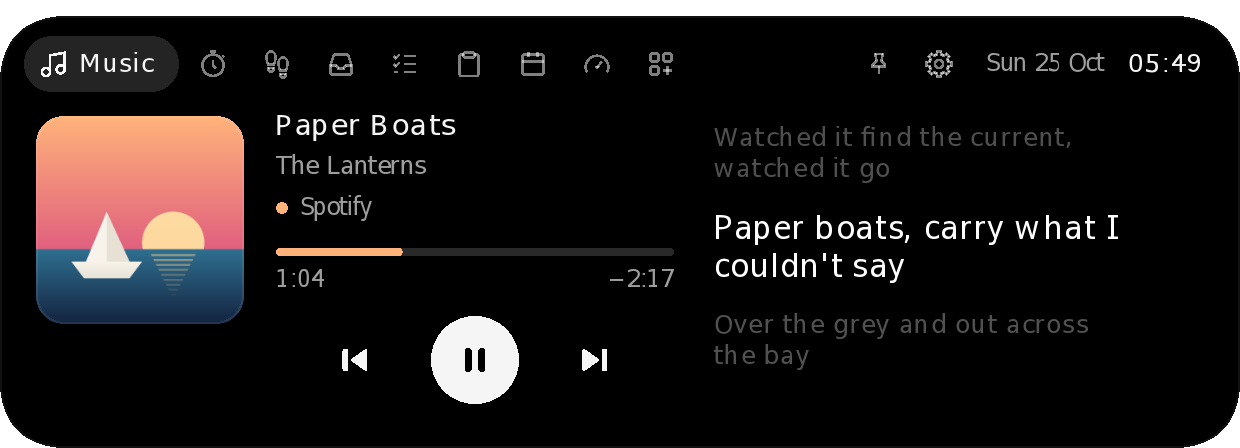
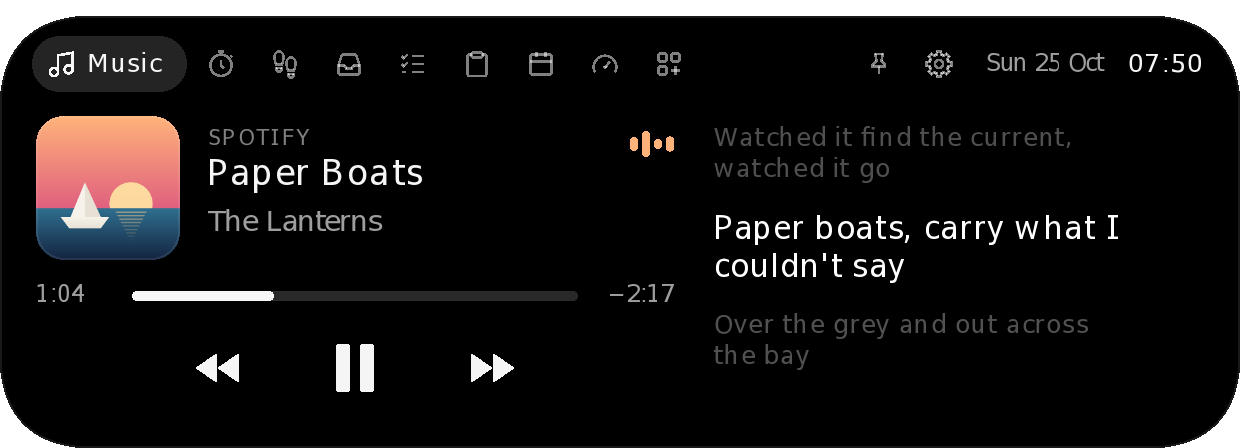
Website and README: Pill from the integrated build, on Windows and on the Mac
The Pill pictures are retaken from the integrated build (pill-theme acc3125,
lane build) at 200 %: the time and battery at rest, the Status bar look, the
line being sung with the album's bars and glow, the timer, the volume pop-up
and a notice as capsules, and the Music card (ref1 layout, lyrics kept). The
copy says what that build does: a desktop shows the time alone, plugged in
shows the bolt, Status bar is Pill's own idle look, the card has Classic's
tabs. Wine's software renderer draws no shadow (its window would take clicks
there), so these Windows pictures have the rim but not the shadow.

The Mac section gets "Pill on a Mac" from the mac workflow's renders (run
40147278931): at rest beside the camera, the sung line and pop-ups floating
just below the notch, and the Music and Today cards below it; its notes and
the README's Mac lines list Pill. tools/site_shots.py <renders> mac pill cuts
those (taller strips: what floats below the notch needs the room).

Classic and Oyen Settings pictures retaken in the same minute: the theme
picker lists Pill. README: the Pill guide follows the integrated build and
says what Pill does on a MacBook with a notch.

diff --git a/site/index.html b/site/index.html
@@ -198,6 +198,7 @@ section { padding-block: 88px; }
 .pill-rest .sky, .pill-side .sky { height: 136px; }
 .pill-theme .pill-page { margin-top: 16px; }
 .pill-side { display: grid; gap: 14px; }
+.pill-theme .theme-notes { align-items: start; }
 .pill-side .how { margin-top: 0; }
 /* the Mac: screen pictures with the menu bar and the camera notch, so they keep their own frame */
 .mac-strips { display: grid; grid-template-columns: repeat(3, minmax(0, 1fr)); gap: 16px; }
@@ -207,6 +208,9 @@ section { padding-block: 88px; }
 .mac-shot strong { font: 600 16px/1.3 var(--display); }
 .mac-shot span { font-size: 14px; color: var(--muted); }
 .mac-get { display: grid; gap: 14px; justify-items: start; }
+/* Pill on a Mac: its own pictures, after the Classic and Oyen ones the switch swaps */
+.mac-pill { margin-top: 40px; }
+.mac-pill > .eyebrow { margin-bottom: 14px; }
 .mac-get .how { margin-top: 0; }
 .how { margin-top: 18px; font-size: 15px; color: var(--muted); }
 .how kbd { font: 600 13px/1 var(--sans); background: var(--bg); border: 1px solid var(--line); border-bottom-width: 2px; border-radius: 6px; padding: 3px 7px; color: var(--ink); }
@@ -369,12 +373,40 @@ footer a { color: var(--muted); }
           <figcaption><strong>Today</strong><span>The date and calendar, with your Mac's CPU, memory, disk and battery.</span></figcaption>
         </figure>
       </div>
+      <div class="mac-pill">
+        <p class="eyebrow">Pill on a Mac · New in 0.1.21 (to confirm)</p>
+        <div class="mac-strips">
+          <figure class="mac-shot">
+            <img src="assets/shots/mac/pill/idle-clock.webp" alt="Pill resting on a MacBook: attached beside the camera notch, the time on its left, the battery's percentage and the battery on its right" width="420" height="108" loading="lazy">
+            <figcaption><strong>Resting</strong><span>Beside the camera: the time on one side, the battery on the other.</span></figcaption>
+          </figure>
+          <figure class="mac-shot">
+            <img src="assets/shots/mac/pill/media-activity.webp" alt="Pill on a MacBook while a lyric line is sung: a black capsule floating just below the notch, with the album art, the line and an equalizer in the album's colour" width="420" height="108" loading="lazy">
+            <figcaption><strong>The line being sung</strong><span>It needs the room the camera takes, so it floats just below the notch.</span></figcaption>
+          </figure>
+          <figure class="mac-shot">
+            <img src="assets/shots/mac/pill/volume-hud.webp" alt="The volume pop-up in Pill on a MacBook: a capsule floating just below the notch" width="420" height="108" loading="lazy">
+            <figcaption><strong>Pop-ups and notices</strong><span>Capsules that float just below the notch.</span></figcaption>
+          </figure>
+        </div>
+        <div class="pages-2">
+          <figure class="mac-shot">
+            <img src="assets/shots/mac/pill/page-media.webp" alt="The open island in Pill on a MacBook: a black card with four rounded corners floating below the notch, on the Music page with synced lyrics" width="710" height="296" loading="lazy">
+            <figcaption><strong>Open, below the notch</strong><span>The card floats just below the menu bar, every corner rounded.</span></figcaption>
+          </figure>
+          <figure class="mac-shot">
+            <img src="assets/shots/mac/pill/page-today.webp" alt="The Today page in Pill on a MacBook, in the same floating card" width="710" height="312" loading="lazy">
+            <figcaption><strong>Every page</strong><span>Today, Focus, the Shelf and the rest open in the same card.</span></figcaption>
+          </figure>
+        </div>
+      </div>
       <div class="theme-notes">
         <ul>
           <li><span>Music and Spotify, with synced lyrics from LRCLIB, or Apple Music's own with your token, and the reading under Japanese, Korean and Chinese lines.</span></li>
           <li><span>The focus timer, the Shelf with Phone drop over the same Wi-Fi, tasks, clipboard history, and the System page with your Mac's CPU, graphics, memory, drives, network, battery and busiest apps.</span></li>
-          <li><span>Pop-ups for volume and charging, the Classic, Oyen and Glass themes, and start at login. Every option is in the menu bar, under Oyen's mark.</span></li>
+          <li><span>Pop-ups for volume and charging, the Classic, Oyen, Glass and Pill themes, and start at login. Every option is in the menu bar, under Oyen's mark.</span></li>
           <li><span>New in 0.1.19: Oyen goes black around the notch; Glass is macOS's own glass, Liquid Glass on macOS 26 and a dark blur before it, with a black strip where it meets the notch; and the System page reads your Mac, the way Stats shows it.</span></li>
+          <li><span>New in 0.1.21 (to confirm): Pill. On a MacBook with a notch, the resting island, the timer and music between lines stay beside the camera; the line being sung, pop-ups, notices and the open island float just below the notch. Without a notch it floats below the top of the screen, as on Windows.</span></li>
           <li><span>Not on the Mac yet: paired phones, Oyenza sign-in, add-ons, Show over games, headphone pop-ups and hiding in full-screen apps.</span></li>
         </ul>
         <div class="mac-get">
@@ -711,39 +743,44 @@ footer a { color: var(--muted); }
       </div>
       <div class="pill-rest">
         <figure class="strip">
-          <div class="sky"><div class="island"><img src="assets/shots/pill/idle-clock.webp" alt="The Pill island at rest: a black capsule floating below the top edge, the time on the left and the battery on the right" width="84" height="38" loading="lazy"></div></div>
-          <figcaption><strong>Resting</strong><span>The time on the left and, on a laptop, the battery on the right.</span></figcaption>
+          <div class="sky"><div class="island"><img src="assets/shots/pill/idle-clock.webp" alt="The Pill island at rest: a black capsule floating below the top edge, the time on the left, 76% and a green battery on the right" width="152" height="40" loading="lazy"></div></div>
+          <figcaption><strong>Resting</strong><span>The time on the left and, on a laptop, the battery on the right, with a bolt while it's plugged in. A desktop shows the time alone.</span></figcaption>
         </figure>
         <figure class="strip">
-          <div class="sky"><div class="island"><img src="assets/shots/pill/media-activity.webp" alt="The Pill island while music plays: the album art, the line being sung in the middle and an equalizer in the album's colour" width="120" height="40" loading="lazy"></div></div>
-          <figcaption><strong>Music playing</strong><span>The album art, the line being sung, and a beat in the album's colour, with a glow of it along the bottom edge.</span></figcaption>
+          <div class="sky"><div class="island"><img src="assets/shots/pill/idle-status.webp" alt="The Status bar look: the volume, the date and time in a pill of their own, and the battery" width="238" height="40" loading="lazy"></div></div>
+          <figcaption><strong>Status bar</strong><span>The volume, the date and time in an inner pill, and the battery.</span></figcaption>
         </figure>
         <figure class="strip">
-          <div class="sky"><div class="island"><img src="assets/shots/pill/timer-activity.webp" alt="A focus countdown in the Pill theme: a progress ring and the minutes left" width="96" height="40" loading="lazy"></div></div>
+          <div class="sky"><div class="island"><img src="assets/shots/pill/media-activity.webp" alt="The Pill island while music plays: the album art, the line being sung, and bars in the album's colour, which glows along the bottom edge" width="336" height="40" loading="lazy"></div></div>
+          <figcaption><strong>Music playing</strong><span>The line being sung, or the title and artist between lines, with bars in the album's colour and a glow of it along the bottom.</span></figcaption>
+        </figure>
+        <figure class="strip">
+          <div class="sky"><div class="island"><img src="assets/shots/pill/timer-activity.webp" alt="A focus countdown in the Pill theme: a progress ring and the minutes left in a capsule" width="96" height="40" loading="lazy"></div></div>
           <figcaption><strong>Focus timer</strong><span>The ring and the minutes left.</span></figcaption>
         </figure>
         <figure class="strip">
-          <div class="sky"><div class="island"><img src="assets/shots/pill/volume-hud.webp" alt="The volume pop-up in the Pill theme: a speaker, the level and the percentage in one capsule" width="316" height="48" loading="lazy"></div></div>
-          <figcaption><strong>Volume and charging</strong><span>Pop-ups take the same shape.</span></figcaption>
+          <div class="sky"><div class="island"><img src="assets/shots/pill/volume-hud.webp" alt="The volume pop-up in the Pill theme: a speaker, the level and 64% in one capsule" width="272" height="40" loading="lazy"></div></div>
+          <figcaption><strong>Volume and charging</strong><span>Pop-ups take the same capsule shape.</span></figcaption>
+        </figure>
+        <figure class="strip">
+          <div class="sky"><div class="island"><img src="assets/shots/pill/health-notice.webp" alt="A notice in the Pill theme: 8,412 steps today, daily step goal reached, in a taller capsule" width="200" height="56" loading="lazy"></div></div>
+          <figcaption><strong>Notices</strong><span>A taller capsule, with room for two lines.</span></figcaption>
         </figure>
       </div>
       <figure class="strip tall pill-page">
-        <div class="sky"><div class="island"><img src="assets/shots/pill/page-media.webp" alt="The open island in the Pill theme: a black card with four rounded corners floating below the top edge, on the Music page with synced lyrics" width="620" height="224" loading="lazy"></div></div>
-        <figcaption><strong>Open</strong><span>A card with all four corners rounded. On the Music page: the album art and the song, the time on one line, and the controls under it.</span></figcaption>
+        <div class="sky"><div class="island"><img src="assets/shots/pill/page-media.webp" alt="The open island in the Pill theme: a black card with four rounded corners floating below the top edge, on the Music page: the album art, Spotify over Paper Boats, the time on one line, the controls, and the synced lyrics beside them" width="620" height="224" loading="lazy"></div></div>
+        <figcaption><strong>Open</strong><span>A card with every corner rounded and Classic's tabs. On the Music page: the art, the player's name over the song, the time on one line and big controls, with the lyrics beside them.</span></figcaption>
       </figure>
       <div class="theme-notes">
         <ul>
           <li><span>A soft shadow and a fine rim keep it apart from the wallpaper, light or dark.</span></li>
           <li><span>Colour only where it means something: the album's colour for music, green for a charging battery, red for a low one.</span></li>
-          <li><span>Right-click › <b>Idle look</b> › <b>Status bar</b> and the resting pill widens into a status bar: the date and time, the volume and the battery.</span></li>
+          <li><span>Status bar is Pill's own idle look: right-click › <b>Idle look</b> › <b>Status bar</b>. The other themes keep the clock.</span></li>
+          <li><span>On a MacBook with a notch, the resting island stays beside the camera, and pop-ups, notices and the open card float just below it: <a href="#mac">see On a Mac</a>.</span></li>
           <li><span>The pages and features are the same as in Classic. Classic stays the default look.</span></li>
         </ul>
         <div class="pill-side">
-          <figure class="strip">
-            <div class="sky"><div class="island"><img src="assets/shots/pill/health-notice.webp" alt="A notice in the Pill theme: 8,412 steps today, daily step goal reached, in a taller capsule" width="372" height="60" loading="lazy"></div></div>
-            <figcaption><strong>Notices</strong><span>A taller capsule, with room for two lines.</span></figcaption>
-          </figure>
-          <p class="how">Right-click the island, then <kbd>Theme</kbd> › <kbd>Pill</kbd>. Or open the island, press the gear and pick <kbd>Pill</kbd> under Theme. Switch back to <kbd>Classic</kbd> any time.</p>
+          <p class="how">Right-click the island, then <kbd>Theme</kbd> › <kbd>Pill</kbd>. Or open the island, press the gear and pick <kbd>Pill</kbd> under Theme. On a Mac, it's in the menu bar's Theme menu. Switch back to <kbd>Classic</kbd> any time.</p>
         </div>
       </div>
     </div>

diff --git a/tools/site_shots.py b/tools/site_shots.py
@@ -55,6 +55,12 @@ menu bar:
     gh run download <mac run> -R lucacadalora/poni -n mac-renders -D mac-renders
     python3 tools/site_shots.py mac-renders mac
 
+Pill's Mac pictures (mac/pill/, MAC_PILL_KEEP) are cut taller: what hangs
+below the notch floats there. A theme as a fourth argument cuts only that
+theme's pictures:
+
+    python3 tools/site_shots.py mac-renders mac pill
+
 The self-test writes NAME.png (the island's canvas on a test gradient, with
 margins) and NAME-alpha.png (the canvas's own alpha). This cuts the canvas out,
 takes its alpha from NAME-alpha.png and removes the gradient from the
@@ -76,8 +82,9 @@ KEEP = {
     "page-settings-stay-on-top", "page-shelf-pairing", "page-addons", "page-prayer", "prayer-countdown",
     "game-stats", "page-system-games",
 }
-# The Pill section: the island at rest, playing music and open on the Music page.
-PILL_KEEP = {"idle-clock", "media-activity", "timer-activity", "volume-hud", "health-notice", "page-media"}
+# The Pill section: the island at rest (clock and status bar looks), playing music (the line being
+# sung), a timer, a pop-up and a notice, and open on the Music page.
+PILL_KEEP = {"idle-clock", "idle-status", "media-activity", "timer-activity", "volume-hud", "health-notice", "page-media"}
 # Glass pictures keep the page under the island: the glass is made of it.
 # By run: the open island in light and dark mode, and the resting island
 # over a bright page and over a dark one with Windows still in light mode.
@@ -87,6 +94,10 @@ GLASS_KEEP = {"light": {"page-media", "media-activity"}, "dark": {"page-media"},
 # the notch and are kept whole.
 MAC_KEEP = {"idle-clock", "media-activity", "timer-activity", "page-media", "page-today"}
 MAC_STRIP = (840, 136)
+# Pill on a Mac: what hangs below the notch (the line being sung, pop-ups) floats there, so its
+# strips are cut taller to keep the pill and its shadow; the resting island stays in the ears.
+MAC_PILL_KEEP = {"idle-clock", "media-activity", "volume-hud", "page-media", "page-today"}
+MAC_PILL_STRIP = (840, 216)
 
 
 def cut(shot: Path, alpha: Path, floating: bool = False) -> Image.Image:
@@ -129,17 +140,19 @@ def glass(src: Path, run: str) -> None:
         print(f"glass/{run}-{name}.webp  {img.width}x{img.height}")
 
 
-def mac(src: Path) -> None:
+def mac(src: Path, only: str | None = None) -> None:
     for shot in sorted(src.glob("[0-9][0-9]-*-notch.png")):
         name = re.sub(r"^\d\d-", "", shot.stem)[: -len("-notch")]
         theme = "classic"
-        if name.endswith("-oyen"):
-            name, theme = name[: -len("-oyen")], "oyen"
-        if name not in MAC_KEEP:
+        for t in ("oyen", "pill"):
+            if name.endswith("-" + t):
+                name, theme = name[: -len(t) - 1], t
+        keep, strip = (MAC_PILL_KEEP, MAC_PILL_STRIP) if theme == "pill" else (MAC_KEEP, MAC_STRIP)
+        if name not in keep or (only and theme != only):
             continue
         img = Image.open(shot).convert("RGB")
         if not name.startswith("page-"):
-            w, h = MAC_STRIP
+            w, h = strip
             x0 = (img.width - w) // 2
             img = img.crop((x0, 0, x0 + w, h))
         dst = ROOT / "site" / "assets" / "shots" / "mac" / theme
@@ -152,8 +165,8 @@ def main() -> None:
     if len(sys.argv) == 4 and sys.argv[2] == "glass" and sys.argv[3] in ("light", "dark", "flip"):
         glass(Path(sys.argv[1]), sys.argv[3])
         return
-    if len(sys.argv) == 3 and sys.argv[2] == "mac":
-        mac(Path(sys.argv[1]))
+    if len(sys.argv) in (3, 4) and sys.argv[2] == "mac":
+        mac(Path(sys.argv[1]), sys.argv[3] if len(sys.argv) == 4 else None)
         return
     if len(sys.argv) not in (3, 4) or sys.argv[2] not in ("classic", "oyen", "pill"):
         sys.exit(__doc__)

diff --git a/README.md b/README.md
@@ -185,7 +185,7 @@ Yes, on Windows 10 and 11. Glass needs Windows 10 version 2004 or later to bend 
 <summary><b>What's different on a Mac?</b></summary>
 <br>
 
-The island wraps the notch, and the Mac has music with lyrics, Focus, the Shelf with Phone drop, Tasks, Clipboard, Today, the Classic, Oyen and Glass themes and start at login. Not on the Mac yet: paired phones, Oyenza sign-in, add-ons, Show over games, headphone pop-ups and hiding in full-screen apps. [On a Mac](#on-a-mac) has the details.
+The island wraps the notch, and the Mac has music with lyrics, Focus, the Shelf with Phone drop, Tasks, Clipboard, Today, the Classic, Oyen, Glass and Pill themes and start at login. Not on the Mac yet: paired phones, Oyenza sign-in, add-ons, Show over games, headphone pop-ups and hiding in full-screen apps. [On a Mac](#on-a-mac) has the details.
 
 </details>
 
@@ -234,13 +234,14 @@ To bend what's under it, Glass copies the part of the screen behind its window (
 
 ### The Pill theme
 
-Pill changes the island's shape and layouts, not only its colours. Pick it with right-click › **Theme › Pill**, or the gear › **Theme › Pill**.
+Pill changes the island's shape and layouts, not only its colours. Pick it with right-click › **Theme › Pill**, or the gear › **Theme › Pill**; on a Mac, in the menu bar's Theme menu.
 
 - **It floats.** The island sits a little below the top edge: a capsule while it rests, and a card with all four corners rounded when it opens. A soft shadow and a fine rim keep it apart from the wallpaper, light or dark.
-- **At rest** it shows the time and, on a laptop, the battery on the right. Pick **Idle look › Status bar** and it widens into a status bar with the date and time, the volume and the battery.
-- **While music plays** it shows the album art, the line being sung (or the song's title when nothing is being sung) and a beat in the album's colour, which glows along the bottom edge.
-- **Open**, the Music page is a card: the album art and the song, the time on one line, and the controls under it. Pop-ups and notices take the capsule shape too.
+- **At rest** it shows the time and, on a laptop, the battery's percentage and the battery on the right, with a bolt while it's plugged in. A desktop shows the time alone. Pick **Idle look › Status bar** and it widens into a status bar: the volume, the date and time in an inner pill, and the battery. Status bar is Pill's own; the other themes keep the clock.
+- **While music plays** it shows the album art, the line being sung (or the title and artist between lines) and bars in the album's colour, with a glow of it along the bottom edge.
+- **Open**, it's a card with Classic's tabs. The Music page lays out like a player card: the art, the player's name over the song, the time on one line and big controls, with the lyrics beside them. Pop-ups, notices and the focus timer take the capsule shape too.
 - **Colour only where it means something:** the album's colour for music, green for a charging battery, red for a low one, and your Windows accent elsewhere.
+- **On a MacBook with a notch**, the resting island, the timer and music between lines stay beside the camera, and the line being sung, pop-ups, notices and the open card float just below the notch. Without a notch it floats below the top of the screen, as on Windows.
 
 The pages and features are the same as in Classic.
 
@@ -256,7 +257,7 @@ Windows lets only admins and the **Performance Log Users** group read that log. 
 
 On a MacBook with a camera notch, the island lives around it: what's playing sits either side of the camera (the album art on the left and the beat on the right, a timer's ring and its minutes the same way), and the island opens downward from the notch when you point at it. On a Mac without a notch, or on another display, it hangs from the top of the screen as it does on Windows.
 
-The Mac app has the island, Music and Spotify with synced lyrics (and Apple Music's own with [your token](#apple-music-lyrics)), the focus timer, the Shelf with [Phone drop](#phone-drop) over the same Wi-Fi, tasks, clipboard history, Today with your Mac's CPU, memory, disk and battery, pop-ups for volume and charging, the Classic, Oyen and Glass themes, and start at login. Every option is in the menu bar, under Oyen's mark. Not on the Mac yet: paired phones, Oyenza sign-in, add-ons, Show over games, headphone pop-ups and hiding in full-screen apps.
+The Mac app has the island, Music and Spotify with synced lyrics (and Apple Music's own with [your token](#apple-music-lyrics)), the focus timer, the Shelf with [Phone drop](#phone-drop) over the same Wi-Fi, tasks, clipboard history, Today with your Mac's CPU, memory, disk and battery, pop-ups for volume and charging, the Classic, Oyen, Glass and Pill themes ([Pill](#the-pill-theme) floats just below the notch for pop-ups and the open card), and start at login. Every option is in the menu bar, under Oyen's mark. Not on the Mac yet: paired phones, Oyenza sign-in, add-ons, Show over games, headphone pop-ups and hiding in full-screen apps.
 
 The Mac pictures come from the Mac app itself (`poni --render <dir> --notch`, run by the `mac` workflow on a macOS runner with a MacBook's notch drawn in).
 
